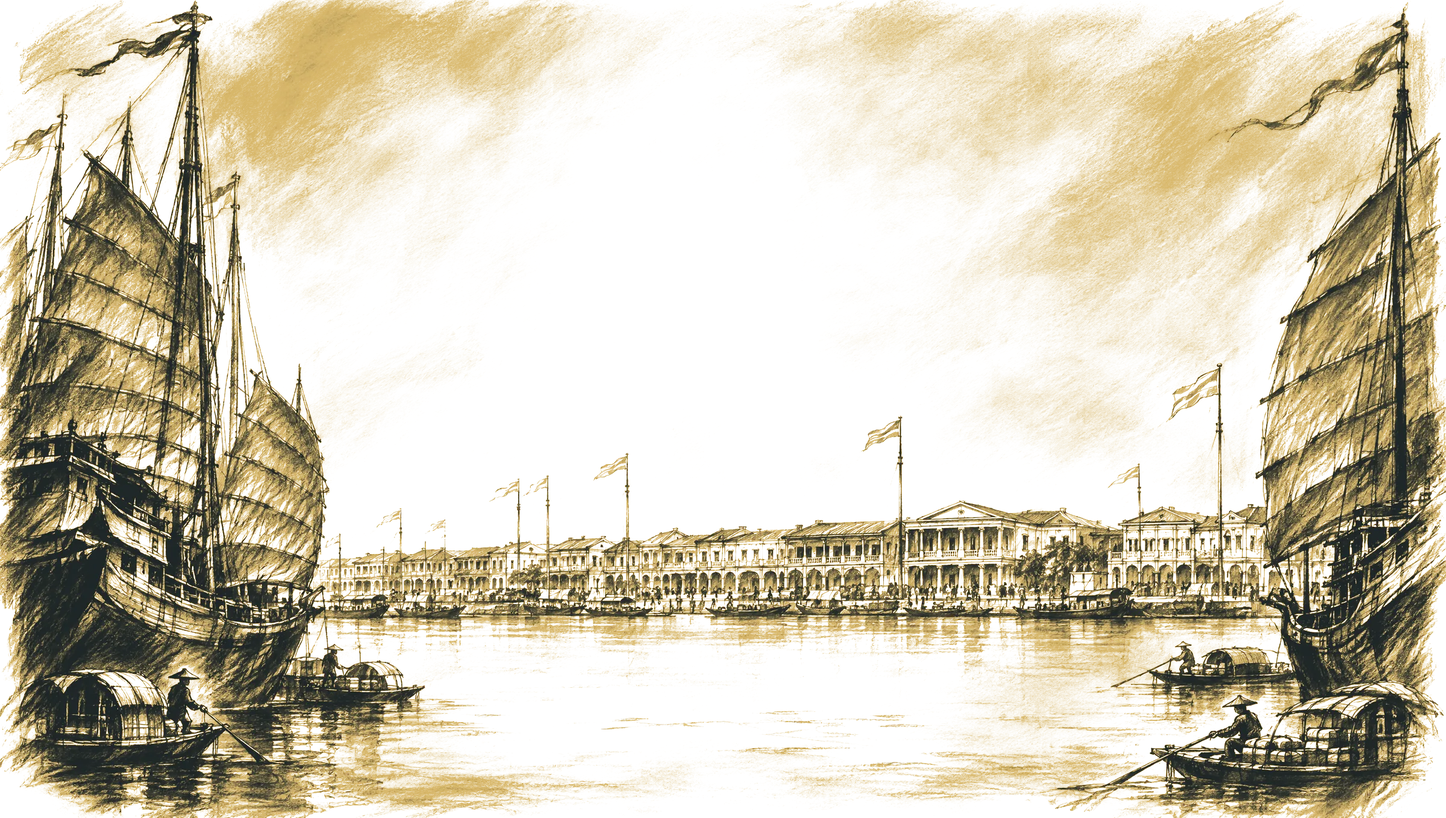
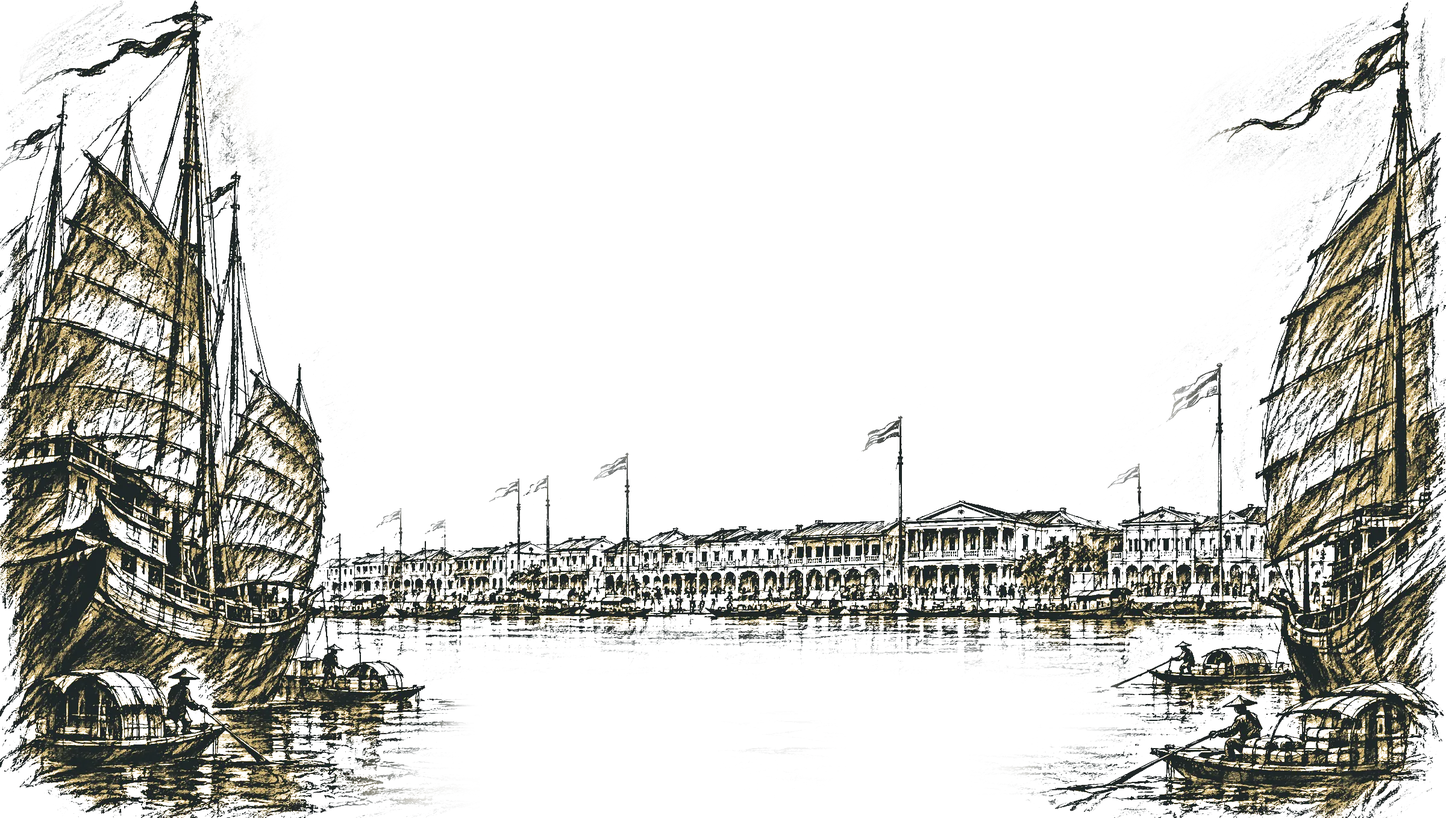
Preview round 2: line-only sketch with clear sky, new mobile scene, centred name, worn copy and rule
Claude-Session: https://claude.ai/code/session_01Xfug1AfVKVb6eUV1Tk5buw

diff --git a/preview/index.html b/preview/index.html
@@ -27,27 +27,28 @@ body{color:var(--red);font-family:"Playfair Display SC",serif;text-align:center}
 @media (max-aspect-ratio:4/5){.bg{background:url(assets/sketch-mobile.webp) center bottom/100% auto no-repeat}}
 .js .bg{display:none}
 main{position:relative;z-index:1;height:100vh;height:100dvh;display:flex;flex-direction:column;padding:0 24px}
-/* Title sits in the open sky, centred on ~31% of the screen height. */
-.hero{height:62%;display:flex;flex-direction:column;justify-content:center;align-items:center}
-.contact{margin-top:auto;padding-bottom:max(36px,7vh)}
+/* Name + tagline dead centre of the screen; contact block pinned to the bottom. */
+.hero{position:absolute;inset:0;display:flex;flex-direction:column;justify-content:center;align-items:center;pointer-events:none}
+.contact{margin-top:auto;padding-bottom:max(22px,3.6vh)}
 h1{font-weight:400;font-size:clamp(24px,5.2vw,76px);line-height:1.1;letter-spacing:.24em;padding-left:.24em}
 .sub{margin-top:.9em;font-size:clamp(11px,1.45vw,20px);letter-spacing:.55em;padding-left:.55em;line-height:1}
-/* Worn-ink (Skyfall-style) texture, masked over live text. */
-/* Second mask layer = how much ink survives in the worn spots (higher = lighter wear). */
-.worn{display:inline-block;--keep:rgba(0,0,0,.18);
-  -webkit-mask:url(assets/wear.webp) center/cover no-repeat,linear-gradient(var(--keep),var(--keep));
-  mask:url(assets/wear.webp) center/cover no-repeat,linear-gradient(var(--keep),var(--keep))}
-.sub .worn{--keep:rgba(0,0,0,.6)}
-.rule{width:min(640px,100%);margin:0 auto 20px;border-top:1px solid var(--red)}
-.addr{font-size:15px;font-weight:600;letter-spacing:1.5px}
+/* Worn-ink (Skyfall-style) texture masked over all copy and the rule.
+   --keep = how much ink survives in the worn spots (higher = lighter wear); --grain = texture scale. */
+.worn{display:inline-block;--keep:rgba(0,0,0,.42);--grain:1000px;
+  -webkit-mask:url(assets/wear.webp) 0 0/var(--grain) auto repeat,linear-gradient(var(--keep),var(--keep));
+  mask:url(assets/wear.webp) 0 0/var(--grain) auto repeat,linear-gradient(var(--keep),var(--keep))}
+.sub .worn{--keep:rgba(0,0,0,.6);--grain:700px}
+.contact .worn{--keep:rgba(0,0,0,.62);--grain:600px}
+.contact .rule{display:block;height:2px;margin:0 auto 20px;background:var(--red);--keep:rgba(0,0,0,.6);--grain:1400px}
+.addr,.mail a{font-size:15px;font-weight:600;letter-spacing:1.5px}
 .mail{margin-top:5px}
-.mail a{font-family:"Playfair Display",serif;font-size:15px;font-weight:600;letter-spacing:2px;color:var(--red);text-decoration:none}
+.mail a{color:var(--red);text-decoration:none}
 .mail a:hover{text-decoration:underline}
 @media (max-aspect-ratio:4/5){
-  h1{font-size:clamp(20px,6.6vw,40px);letter-spacing:.16em;padding-left:.16em}
+  main{padding:0 16px}
+  .contact{padding-bottom:max(36px,7vh)}
+  h1{font-size:clamp(20px,6.8vw,44px);letter-spacing:.16em;padding-left:.16em}
   .sub{font-size:clamp(10px,3vw,14px);letter-spacing:.45em;padding-left:.45em}
-  .hero{height:58%}
-  .rule{width:70%}
 }
 /* Fade-ins run after the sketch has drawn in (JS only). */
 .js .f{opacity:0;transition:opacity 1.8s ease}
@@ -64,10 +65,10 @@ h1{font-weight:400;font-size:clamp(24px,5.2vw,76px);line-height:1.1;letter-spaci
     <p class="sub"><span class="worn">Private Investments</span></p>
   </header>
   <section class="contact">
-    <div class="rule f"></div>
+    <div class="f"><span class="rule worn" id="rule"></span></div>
     <div class="f">
-      <p class="addr">Miami Beach, FL, 33139</p>
-      <p class="mail"><a href="mailto:info@thenoblehouse.com">info@thenoblehouse.com</a></p>
+      <p class="addr"><span class="worn">Miami Beach, FL, 33139</span></p>
+      <p class="mail"><a class="worn" href="mailto:info@thenoblehouse.com">info@thenoblehouse.com</a></p>
     </div>
   </section>
 </main>
@@ -106,18 +107,29 @@ h1{font-weight:400;font-size:clamp(24px,5.2vw,76px);line-height:1.1;letter-spaci
   }
   // Desktop: fill the screen. Tall screens: keep the ships on both edges by fitting to width
   // (allowing a gap of open sky at the top, faded into the teal) instead of cropping the sides.
+  // Desktop: fill the screen, nudged down so the centred name clears the waterfront flags.
+  // Mobile: fit to width and sit the harbour scene just above the contact block, fading its
+  // bottom edge out, so the name has open sky and the address/email sit on clear teal.
   function cover() {
-    var iw = img.naturalWidth, ih = img.naturalHeight, cw = cv.width, ch = cv.height;
-    var s = isMobile ? Math.max(cw / iw * 1.04, ch / ih * 0.8) : Math.max(cw / iw, ch / ih);
-    var w = iw * s, h = ih * s, x = (cw - w) / 2, y = h < ch ? ch - h : (ch - h) / 2;
-    ctx.drawImage(img, x, y, w, h);
-    if (y > 0) {
-      var op = ctx.globalCompositeOperation, f = ctx.createLinearGradient(0, y, 0, y + h * 0.18);
-      f.addColorStop(0, 'rgba(0,0,0,1)'); f.addColorStop(1, 'rgba(0,0,0,0)');
-      ctx.globalCompositeOperation = 'destination-out'; ctx.fillStyle = f; ctx.fillRect(0, y, cw, h * 0.18);
-      ctx.globalCompositeOperation = op;
+    var iw = img.naturalWidth, ih = img.naturalHeight, cw = cv.width, ch = cv.height, s, w, h, x, y;
+    if (isMobile) {
+      s = cw / iw * 1.04; w = iw * s; h = ih * s; x = (cw - w) / 2;
+      var dpr = cw / innerWidth, top = contact.getBoundingClientRect().top * dpr;
+      y = top - 10 * dpr - h;
+    } else {
+      s = Math.max(cw / iw, ch / ih); w = iw * s; h = ih * s; x = (cw - w) / 2;
+      y = (ch - h) / 2 + ch * 0.085;
     }
+    ctx.drawImage(img, x, y, w, h);
+    if (isMobile) fade(y + h * 0.9, y + h);
   }
+  function fade(from, to) {
+    var op = ctx.globalCompositeOperation, f = ctx.createLinearGradient(0, from, 0, to);
+    f.addColorStop(0, 'rgba(0,0,0,0)'); f.addColorStop(1, 'rgba(0,0,0,1)');
+    ctx.globalCompositeOperation = 'destination-out'; ctx.fillStyle = f; ctx.fillRect(0, from, cv.width, cv.height - from);
+    ctx.globalCompositeOperation = op;
+  }
+  var contact = document.querySelector('.contact');
   function draw(p) {
     ctx.globalCompositeOperation = 'source-over';
     ctx.clearRect(0, 0, cv.width, cv.height);
@@ -154,6 +166,15 @@ h1{font-weight:400;font-size:clamp(24px,5.2vw,76px);line-height:1.1;letter-spaci
     img.onload = cb; img.onerror = fail;
     img.src = isMobile ? 'assets/sketch-mobile.webp' : 'assets/sketch-desktop.webp';
   }
+  // Red rule = exact visual width of "The Noble House" (span width minus its trailing letter-spacing).
+  var title = document.querySelector('h1 .worn'), rule = document.getElementById('rule');
+  function fitRule() {
+    var ls = parseFloat(getComputedStyle(title).letterSpacing) || 0;
+    rule.style.width = Math.round(title.getBoundingClientRect().width - ls) + 'px';
+  }
+  fitRule(); if (document.fonts) document.fonts.ready.then(function () { fitRule(); if (done) draw(2); });
+  addEventListener('resize', fitRule);
+
   if (!ctx) { fail(); return; }
   load(start);
   addEventListener('resize', function () {
